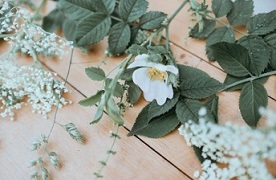
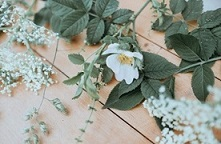
Added media queries for tablet

diff --git a/omoss.html b/omoss.html
@@ -40,17 +40,17 @@
         <main>
             
               
-                <div id="omoss-container">  
-                    <h1>Om oss</h1>
-                    <p class="omoss-text">
-                    Sed ut perspiciatis unde omnis iste natus error sit voluptatem accusantium doloremque laudantium, totam rem aperiam, eaque ipsa quae ab illo inventore veritatis et quasi architecto beatae vitae dicta sunt explicabo.<br><br> Nemo enim ipsam voluptatem quia voluptas sit aspernatur aut odit aut fugit, sed quia consequuntur magni dolores eos qui ratione voluptatem sequi nesciunt.  <br><br>Ut enim ad minima veniam, quis nostrum exercitationem ullam corporis suscipit laboriosam, nisi ut aliquid ex ea commodi consequatur? Quis autem vel eum iure reprehenderit qui.
+                <div id="about-us-container">  
+                    <!-- <h1>Om oss</h1> -->
+                    <p class="about-us-text">
+                    Sed ut perspiciatis unde omnis iste natus error sit voluptatem accusantium doloremque laudantium, totam rem aperiam, eaque ipsa quae ab illo inventore veritatis et quasi architecto beatae vitae dicta sunt explicabo.<br><br> Nemo enim ipsam voluptatem quia voluptas sit aspernatur aut odit aut fugit, sed quia consequuntur magni dolores eos qui ratione voluptatem sequi nesciunt.  <br><br>Ut enim ad minima veniam, quis nostrum exercitationem ullam corporis suscipit laboriosam, nisi ut aliquid ex ea commodi consequatur? Quis autem vel eum iure reprehenderit qui.Lorem ipsum dolor sit amet, consectetur adipiscing elit, sed do eiusmod tempor incididunt ut labore et dolore magna aliqua. 
+                     <br> Ut enim ad minim veniam, quis nostrud exercitation ullamco laboris nisi ut aliquip ex ea commodo consequat. Duis aute irure dolor in reprehenderit in voluptate velit esse cillum dolore eu fugiat nulla pariatur. </p>
                   </p> 
 
                    
-                    </div> 
-                    <div class="image-om-oss">
-                        <img class="img-om-oss-flower" src="Images/om-oss.jpg" alt="En bukett blommor.">
-                </div>
+                        <img class="image-about-us" src="Images/om-oss.jpg" alt="En bukett blommor.">
+                    </div>     
+              </div>
             
         </main>
         <footer>

diff --git a/CSS/omoss.css b/CSS/omoss.css
@@ -1,39 +1,74 @@
-#omoss-container{
+#about-us-container{
     display: grid;
     grid-template-columns: auto;
-  
-    margin: top 50px;
+    padding-top: 20px;
+    
     background-color: white;
     margin: 20px;
     box-shadow: -3px 3px #bdb6b6;
 }
 
-h1{
+/* h1{
     text-align: left;
-    margin-left: 30px;
+    margin-left: 15px;
     font-size: 35px;
     margin-bottom: 10px;
     color: var(--dark-green);
     font-family: 'Raleway',Helvetica,Arial,Lucida,sans-serif;
-}
+} */
 
-.omoss-text{
-    padding: 12px;
+.about-us-text{
+    padding: 19px;
     padding-top: 0;
+    margin-left: 12px;
 
     font-family: 'Raleway',Helvetica,Arial,Lucida,sans-serif;
     
 }
 
-.image-om-oss{ 
-    display: grid;
-    grid-template-columns: auto;
-    justify-content: center;
-          
+
+.image-about-us{
+   margin: 0 auto;
+   margin-bottom: 70px;
+
 }
 
-.img-om-oss-flower{
-    align-items: center;
+
+@media screen and (min-width: 480px){
+
+#about-us-container{
+
+    width: 95%;
+    
 }
 
+.image-about-us{
+   align-self: center;
+   align-content: center;
+   width: 500px;
+   margin-bottom: 70px;
+
+ 
+ }
+/* .image-about-us{
+    display: flex;
+    flex-direction: column;
+
+   
+   
+    
+ 
+ } */
+
+/* .image-about-us{
+
+    justify-self: right ;
+}
+} */
+
+
+@media screen and (min-width:768px) {
+
+}
+    
 
